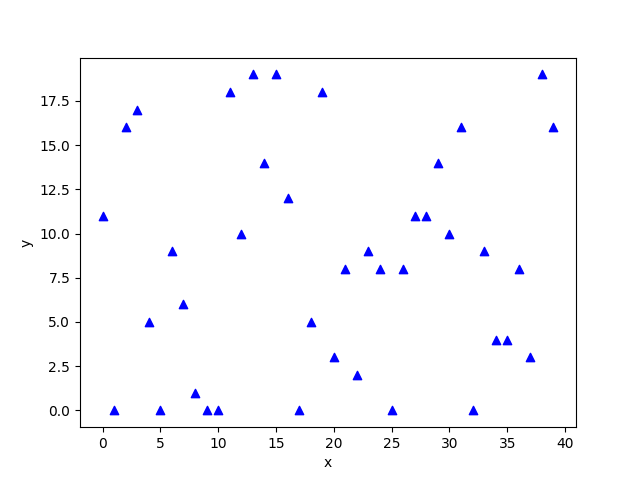
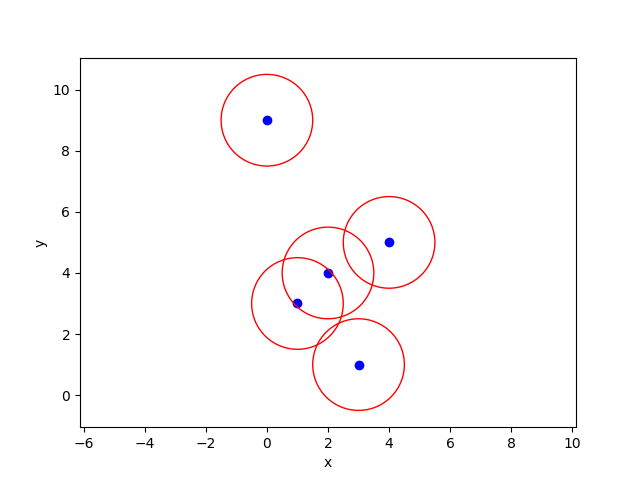
Added Radius to plot

diff --git a/main.py b/main.py
@@ -1,6 +1,38 @@
 import math
 import numpy as np
 import matplotlib.pyplot as plt
+import matplotlib.image as mpimg
+
+# Randomizing the x and y coordinates
+x = np.arange(40)
+y = np.random.randint(20, size=40)
+
+# Plot labels and plot type
+plt.figure(figsize=(10, 5))
+plt.scatter(x, y, color='b', marker='^')
+plt.xlabel("x")
+plt.ylabel("y")
+
+# User Coordinates
+coordinates = []
+for i, j in zip(x, y):
+    coordinates.append((i, j))
+
+# Saving the coordinates to a txt file
+file = open('coordinates.txt', 'w')
+for items in coordinates:
+    line = ' '.join(str(x) for x in items)
+    file.write(line + '\n')
+
+file.close()
+
+# for items in coordinates:
+#     print(items)
+
+# Show Plot
+# plt.grid(True)
+fig1 = plt.gcf()
+# plt.savefig('Users.png')
 
 thita_opt = 0.35499997
 a = 4.88
@@ -14,6 +46,9 @@ c = 3000
 A_1 = P_LoS - P_NLoS
 B_1 = 20 * math.log10((4 * math.pi * f_c) / c) + P_LoS
 
+imgW = 40
+imgH = 20
+
 
 # FITNESS FUNCTION
 # PL_th(Pathloss Threshold) is the x
@@ -25,14 +60,14 @@ def f(x):  # x IS A VECTOR REPRESENTING ONE FLY
     return R
 
 
-N = 500  # POPULATION SIZE
-D = 1  # DIMENSIONALITY
+N = 5  # POPULATION SIZE
+D = 2  # DIMENSIONALITY
 delta = 0.001  # DISTURBANCE THRESHOLD
 maxIterations = 1000  # ITERATIONS ALLOWED
 
 # DC_Pathloss
-lowerB = [0]  # LOWER BOUND (IN ALL DIMENSIONS)
-upperB = [89]  # UPPER BOUND (IN ALL DIMENSIONS)
+lowerB = [0, imgW]  # LOWER BOUND (IN ALL DIMENSIONS)
+upperB = [89, imgH]  # UPPER BOUND (IN ALL DIMENSIONS)
 
 # INITIALISATION PHASE
 X = np.empty([N, D])  # EMPTY FLIES ARRAY OF SIZE: (N,D)
@@ -45,9 +80,12 @@ for i in range(N):
 
 # MAIN DFO LOOP
 for itr in range(maxIterations):
+    # plt.show()
+
     for i in range(N):  # EVALUATION
         fitness[i] = f(X[i,])
     s = np.argmax(fitness)  # FIND BEST FLY
+    print("s",s)
 
     if itr % 100 == 0:  # PRINT BEST FLY EVERY 100 ITERATIONS
         print("Iteration:", itr, "\tBest fly index:", s,
@@ -73,6 +111,25 @@ for itr in range(maxIterations):
             # OUT OF BOUND CONTROL
             if X[i, d] < lowerB[d] or X[i, d] > upperB[d]:
                 X[i, d] = np.random.uniform(lowerB[d], upperB[d])
+
+    rowNo = X[s, 0]
+    colNo = X[s, 1]
+    swarmBestCircle = plt.Circle((rowNo, colNo), 2, color='r')
+
+    # for a, b in zip(rowNo,colNo):
+    #     print(a,b)
+
+    circle = []  # THIS SECTION IS OPTIONAL TO SHOW ALL FLIES
+    for i in range(N):
+        circle.append(plt.Circle((X[i, 1], X[i, 0]), 1.5, color='g'))
+        plt.gca().add_patch(circle[i])
+
+    plt.gca().add_patch(swarmBestCircle)  # ADD THE CIRCLE
+    plt.draw()  # DRAW THE IMAGE AND THE CIRCLE
+    plt.show()
+    plt.axis('off')  # REMOVE THE AXES
+    plt.pause(0.01)  # PAUSE BEFORE THE NEXT ITERATION IN BETWEEN
+    plt.clf()  # CLEAR THE CANVAS
 
 for i in range(N): fitness[i] = f(X[i,])  # EVALUATION
 s = np.argmax(fitness)

diff --git a/Bright_Test.py b/Bright_Test.py
@@ -1,0 +1,89 @@
+import matplotlib.pyplot as plt
+import matplotlib.image as mpimg
+import random
+import numpy as np
+
+img = mpimg.imread('input3.png')
+
+
+# FITNESS FUNCTION
+def f(x):  # x IS A VECTOR REPRESENTING ONE FLY
+    return -img[int(x[0])][int(x[1])]
+
+
+# ADDING THE (-) MAKES IT A MINIMISATION PROBLEM
+
+N = 20  # POPULATION SIZE
+D = 2  # DIMENSIONALITY
+delta = 0.001  # DISTURBANCE THRESHOLD
+maxIterations = 50  # ITERATIONS ALLOWED
+
+imgW = len(img[0])
+imgH = len(img)
+
+lowerB = [0] * D  # LOWER BOUND (IN ALL DIMENSIONS)
+upperB = [imgW] * D  # UPPER BOUND (IN ALL DIMENSIONS)
+
+# INITIALISATION PHASE
+X = np.empty([N, D])  # EMPTY FLIES ARRAY OF SIZE: (N,D)
+fitness = [None] * N  # EMPTY FITNESS ARRAY OF SIZE N
+
+# INITIALISE FLIES WITHIN BOUNDS
+for i in range(N):
+    for d in range(D):
+        X[i, d] = np.random.uniform(lowerB[d], upperB[d])
+
+# MAIN DFO LOOP
+for itr in range(maxIterations):
+    imgplot = plt.imshow(img, cmap='gray')  # SHOW IMAGE
+
+    for i in range(N):  # EVALUATION
+        fitness[i] = f(X[i,])
+    s = np.argmin(fitness)  # FIND BEST FLY
+
+    if itr % 100 == 0:  # PRINT BEST FLY EVERY 100 ITERATIONS
+        print("Iteration:", itr, "\tBest fly index:", s,
+              "\tFitness value:", fitness[s])
+
+    # TAKE EACH FLY INDIVIDUALLY
+    for i in range(N):
+        if i == s: continue  # ELITIST STRATEGY
+
+        # FIND BEST NEIGHBOUR
+        left = (i - 1) % N
+        right = (i + 1) % N
+        bNeighbour = right if fitness[right] < fitness[left] else left
+
+        for d in range(D):  # UPDATE EACH DIMENSION SEPARATELY
+            if np.random.rand() < delta:
+                X[i, d] = np.random.uniform(lowerB[d], upperB[d])
+                continue;
+
+            u = np.random.rand()
+            X[i, d] = X[bNeighbour, d] + u * (X[bNeighbour, d] - X[i, d])
+            # X[i, d] = X[bNeighbour, d] + u * (X[s, d] - X[i, d])
+
+            # OUT OF BOUND CONTROL
+            if X[i, d] < lowerB[d] or X[i, d] > upperB[d]:
+                X[i, d] = np.random.uniform(lowerB[d], upperB[d])
+
+    rowNo = X[s, 1]
+    colNo = X[s, 0]
+    swarmBestCircle = plt.Circle((rowNo, colNo), 5, color='r')
+
+    circle = []  # THIS SECTION IS OPTIONAL TO SHOW ALL FLIES
+    for i in range(N):
+        circle.append(plt.Circle((X[i, 1], X[i, 0]), 2, color='g'))
+        plt.gca().add_patch(circle[i])
+
+    plt.gca().add_patch(swarmBestCircle)  # ADD THE CIRCLE
+    plt.draw()  # DRAW THE IMAGE AND THE CIRCLE
+    plt.axis('off')  # REMOVE THE AXES
+    plt.pause(0.01)  # PAUSE BEFORE THE NEXT ITERATION IN BETWEEN
+    plt.clf()  # CLEAR THE CANVAS
+
+for i in range(N): fitness[i] = f(X[i,])  # EVALUATION
+s = np.argmin(fitness)  # FIND BEST FLY
+
+print("\nFinal best fitness:\t", fitness[s])
+print("\nBest fly position:\n", X[s,])

diff --git a/plot.py b/plot.py
@@ -1,16 +1,14 @@
 import matplotlib.pyplot as plt
 import numpy as np
 
-# Extra parameters
-# plt.rcParams["figure.figsize"] = [7, 7]
-# plt.rcParams["figure.autolayout"] = True
-
 # Initialising random points for the users
-x = np.arange(40)
-y = np.random.randint(20, size=40)
+x = np.arange(5)
+y = np.random.randint(15, size=5)
 
+ax = plt.subplot()
 # Plot labels and plot type
-plt.scatter(x, y, color='b', marker='^')
+# plt.scatter(x, y, color='b', marker='^')
+ax.scatter(x, y, color='b')
 plt.xlabel("x")
 plt.ylabel("y")
 
@@ -24,8 +22,13 @@ for items in coordinates:
     line = ' '.join(str(x) for x in items)
     file.write(line + '\n')
 
-# for items in coordinates:
-#     print(items)
+file.close()
+
+for a, b in coordinates:
+    cir = plt.Circle((a,b), 1.5, color='r', fill=False)
+    ax.set_aspect('equal', adjustable='datalim')
+    ax.add_patch(cir)
+
 
 # Show Plot
 # plt.grid(True)

diff --git a/plot_2.py b/plot_2.py
@@ -1,0 +1,9 @@
+import numpy as np
+import matplotlib.pyplot as plt
+import matplotlib.animation as animation
+fig, ax = plt.subplots()
+ax.scatter([1,2, 1.5], [2, 1, 1.5])
+cir = plt.Circle((1.5, 1.5), 0.07, color='r',fill=False)
+ax.set_aspect('equal', adjustable='datalim')
+ax.add_patch(cir)
+plt.show()
